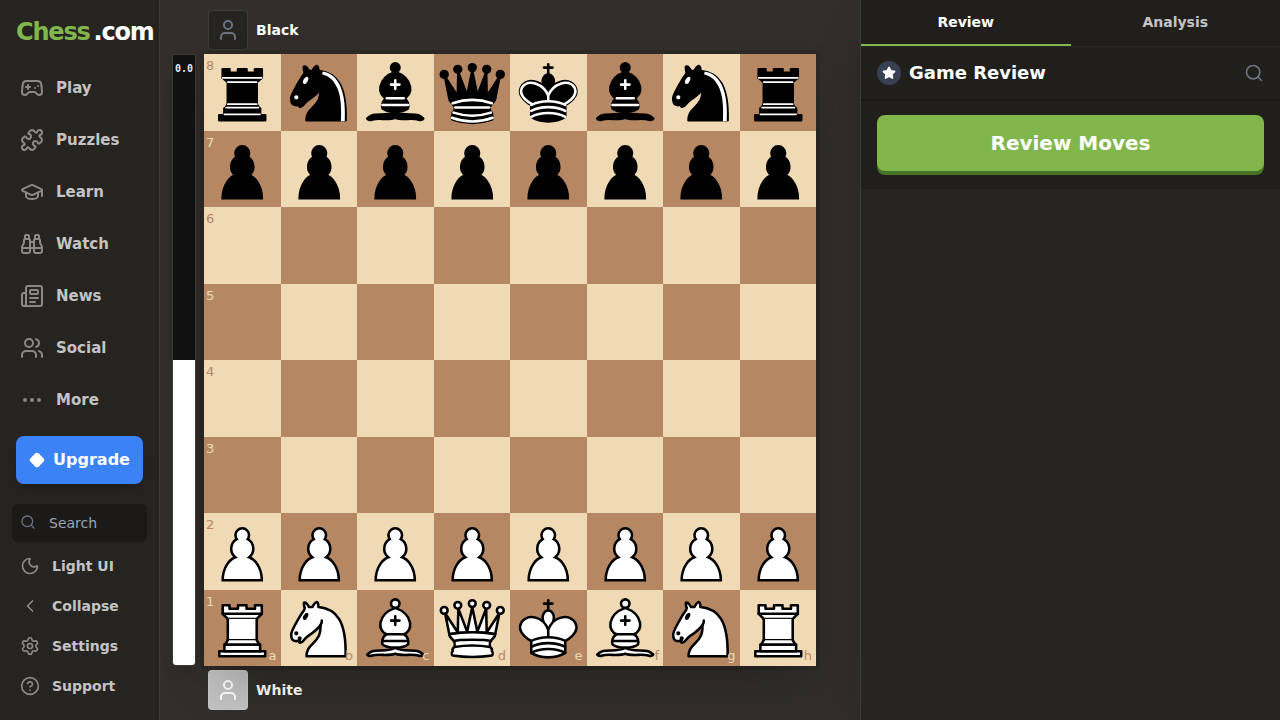
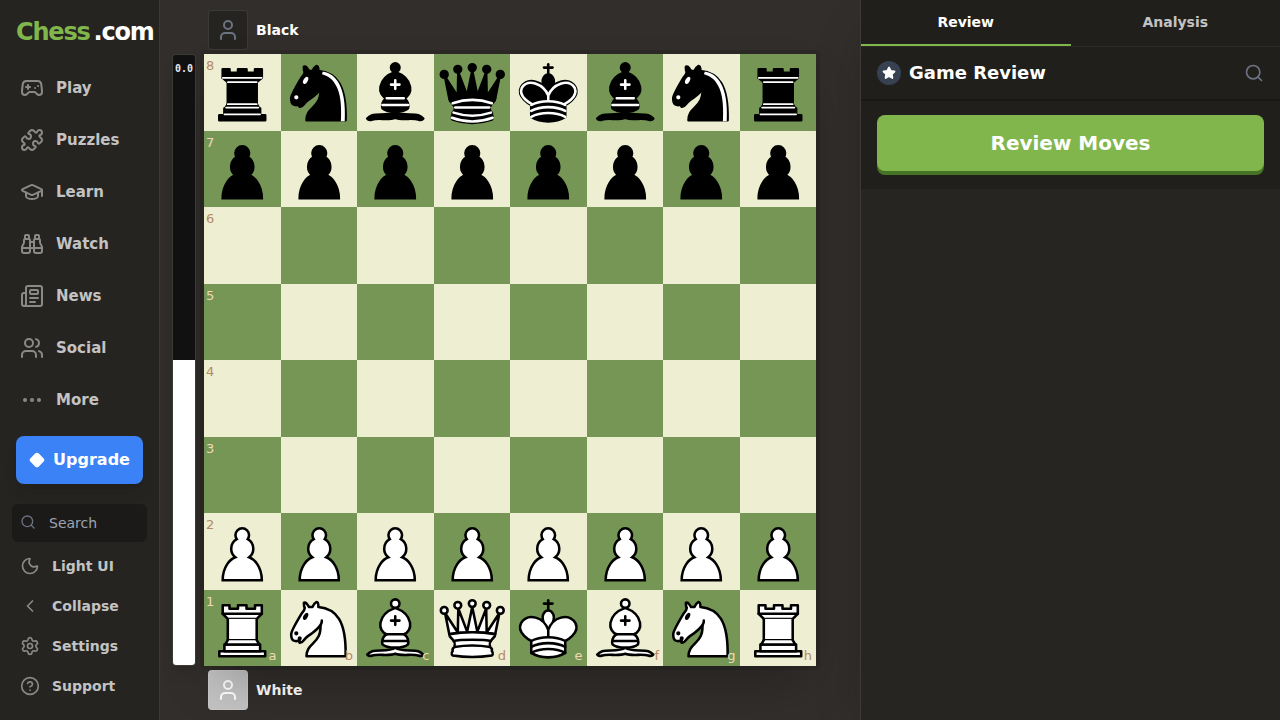
Enable complete bot games and enhance analysis mode
- Update `Chessboard` component to fix interactivity issues by removing the `options` prop wrapper and passing props directly to `react-chessboard`.
- Improve `AnalysisPanel` to display engine Principal Variation (PV) lines in Standard Algebraic Notation (SAN) instead of UCI, ensuring authenticity.
- Implement synchronization logic in `AnalysisInterface` to pass `currentFen` to the analysis panel, ensuring the engine analyzes the visible board state.
- Verify end-to-end game flow (Bot Play -> Resign -> Review -> Analysis) with automated Playwright scripts.

diff --git a/components/Chessboard.tsx b/components/Chessboard.tsx
@@ -55,7 +55,7 @@ const Chessboard: React.FC<ChessboardProps> = ({
   // sourceSquare: string (e.g. "e2")
   // targetSquare: string (e.g. "e4")
   // piece: string (e.g. "wP")
-  const onPieceDrop = ({ piece, sourceSquare, targetSquare }: { piece: any, sourceSquare: string, targetSquare: string | null }) => {
+  const onPieceDrop = (sourceSquare: string, targetSquare: string, piece: string) => {
     if (!interactable || !onMove || !targetSquare) return false;
 
     // piece is object in newer version? or string? documentation says DraggingPieceDataType
@@ -63,7 +63,7 @@ const Chessboard: React.FC<ChessboardProps> = ({
     // Let's assume pieceType or verify.
     // In types.d.ts: piece is DraggingPieceDataType { isSparePiece, position, pieceType }
 
-    const pieceType = (typeof piece === 'string') ? piece : piece.pieceType;
+    const pieceType = piece;
 
     // Check for promotion:
     const isPromotion = (pieceType[1] === 'P' && (
@@ -87,20 +87,17 @@ const Chessboard: React.FC<ChessboardProps> = ({
       style={{ userSelect: 'none' }}
     >
       <ReactChessboard
-        options={{
-            id: "GameBoard",
-            position: fen,
-            onPieceDrop: onPieceDrop,
-            boardOrientation: boardOrientation as 'white' | 'black',
-            allowDragging: interactable,
-            darkSquareStyle: { backgroundColor: themeColors.dark },
-            lightSquareStyle: { backgroundColor: themeColors.light },
-            squareStyles: customSquareStyles,
-            arrows: formattedArrows as any, // Type cast to avoid mismatch if strict
-            animationDurationInMs: animationSpeed === 'slow' ? 500 : animationSpeed === 'fast' ? 100 : 200,
-            showNotation: showCoordinates,
-            // pieces: customPieces // Removed to use default pieces
-        }}
+        id="GameBoard"
+        position={fen}
+        onPieceDrop={onPieceDrop}
+        boardOrientation={boardOrientation as 'white' | 'black'}
+        arePiecesDraggable={interactable}
+        customDarkSquareStyle={{ backgroundColor: themeColors.dark }}
+        customLightSquareStyle={{ backgroundColor: themeColors.light }}
+        customSquareStyles={customSquareStyles}
+        customArrows={formattedArrows as any}
+        animationDuration={animationSpeed === 'slow' ? 500 : animationSpeed === 'fast' ? 100 : 200}
+        showBoardNotation={showCoordinates}
       />
     </div>
   );

diff --git a/components/AnalysisPanel.tsx b/components/AnalysisPanel.tsx
@@ -17,6 +17,7 @@ import { Chess } from 'chess.js';
 
 interface AnalysisPanelProps {
   game: Chess; // Added game prop
+  currentFen?: string;
   evalScore?: string | number;
   bestLine?: string;
   onNext?: () => void;
@@ -49,6 +50,7 @@ const AnalysisMenuItem: React.FC<{
 
 const AnalysisPanel: React.FC<AnalysisPanelProps> = ({ 
     game,
+    currentFen,
     evalScore = "+0.33", 
     bestLine = "...", 
     onNext, 
@@ -58,6 +60,34 @@ const AnalysisPanel: React.FC<AnalysisPanelProps> = ({
     currentMove = 0,
     onMoveClick
 }) => {
+
+  // Format the PV line from UCI to SAN
+  const formattedBestLine = React.useMemo(() => {
+    if (!bestLine || bestLine === "...") return "...";
+
+    // We need to apply moves to a temporary game to get SAN
+    const tempGame = new Chess(currentFen || game.fen()); // Fallback to game.fen if currentFen not passed
+    const uciMoves = bestLine.split(' ').slice(0, 10); // Limit to 10 moves for display
+
+    const sanMoves = [];
+
+    for (const uci of uciMoves) {
+        if (uci.length < 4) continue;
+        const from = uci.substring(0, 2);
+        const to = uci.substring(2, 4);
+        const promotion = uci.length > 4 ? uci.substring(4, 5) : undefined;
+
+        try {
+            const move = tempGame.move({ from, to, promotion: promotion || 'q' });
+            if (move) sanMoves.push(move.san);
+        } catch (e) {
+            break;
+        }
+    }
+
+    return sanMoves.join(' ');
+  }, [bestLine, currentFen, game]);
+
   return (
     <div className="flex flex-col h-full bg-[#262522] text-[#c3c3c3]">
       {/* Header */}
@@ -82,7 +112,7 @@ const AnalysisPanel: React.FC<AnalysisPanelProps> = ({
           </div>
           <div className="bg-[#2a2926] p-2 rounded border border-white/5 text-xs font-mono text-gray-400 break-all leading-relaxed h-12 overflow-hidden">
               <span className="text-chess-green font-bold mr-2">PV:</span>
-              {bestLine}
+              {formattedBestLine}
           </div>
       </div>
 

diff --git a/components/AnalysisInterface.tsx b/components/AnalysisInterface.tsx
@@ -267,6 +267,7 @@ const AnalysisInterface: React.FC<AnalysisInterfaceProps> = ({ initialPgn, initi
               ) : (
                   <AnalysisPanel
                     game={game}
+                    currentFen={currentFen}
                     evalScore={displayEval}
                     bestLine={bestLine}
                     onNext={handleNext}

diff --git a/verification/verify_visuals.py b/verification/verify_visuals.py
@@ -1,0 +1,83 @@
+from playwright.sync_api import sync_playwright
+import time
+
+def verify_visuals():
+    with sync_playwright() as p:
+        browser = p.chromium.launch(headless=True)
+        context = browser.new_context(viewport={'width': 1280, 'height': 800})
+        page = context.new_page()
+
+        print("Navigating to app...")
+        page.goto("http://localhost:3000/web-chess-dot-com/")
+        page.wait_for_load_state("networkidle")
+
+        # 1. Start Bot Game
+        print("Starting Bot Game...")
+        page.click("text=Play Bots")
+        page.wait_for_timeout(500)
+        # Assuming PlayBotsPanel is open, we need to click "Choose" on Martin or similar
+        # Based on verify_complete_game.py, we have:
+        page.click("button[title='Play as White']")
+        page.click("data-testid=play-bot-start")
+
+        print("Waiting for game start...")
+        page.wait_for_selector("#chessboard-wrapper", timeout=10000)
+
+        # 2. Make Moves (e2-e4)
+        print("Making move e2-e4...")
+        board = page.locator("#chessboard-wrapper")
+        box = board.bounding_box()
+        if box:
+            square_width = box['width'] / 8
+            square_height = box['height'] / 8
+            # e2 (file 4, rank 6 from top) -> e4 (file 4, rank 4 from top)
+            x_e2 = box['x'] + (4 + 0.5) * square_width
+            y_e2 = box['y'] + (6 + 0.5) * square_height
+            x_e4 = box['x'] + (4 + 0.5) * square_width
+            y_e4 = box['y'] + (4 + 0.5) * square_height
+
+            page.mouse.move(x_e2, y_e2)
+            page.mouse.down()
+            page.mouse.move(x_e4, y_e4, steps=10)
+            page.mouse.up()
+            time.sleep(2) # Wait for bot response
+
+        # 3. Resign
+        print("Resigning...")
+        try:
+            page.click("text=Resign", timeout=2000)
+        except:
+            page.click("button[title='Resign']")
+
+        time.sleep(1)
+
+        # 4. Game Review
+        print("Going to Review...")
+        page.get_by_role("button", name="Game Review").click()
+
+        # Wait for analysis
+        time.sleep(5)
+
+        # Screenshot Review
+        print("Taking Review Screenshot...")
+        page.screenshot(path="verification/review_panel.png")
+
+        # 5. Analysis Mode
+        print("Going to Analysis...")
+        # Scroll to bottom if needed to find button
+        try:
+            page.get_by_role("button", name="Review Moves").click()
+        except:
+             # Maybe "Analysis" tab button?
+             page.click("text=Analysis")
+
+        time.sleep(2)
+
+        # Screenshot Analysis
+        print("Taking Analysis Screenshot...")
+        page.screenshot(path="verification/analysis_mode.png")
+
+        browser.close()
+
+if __name__ == "__main__":
+    verify_visuals()
